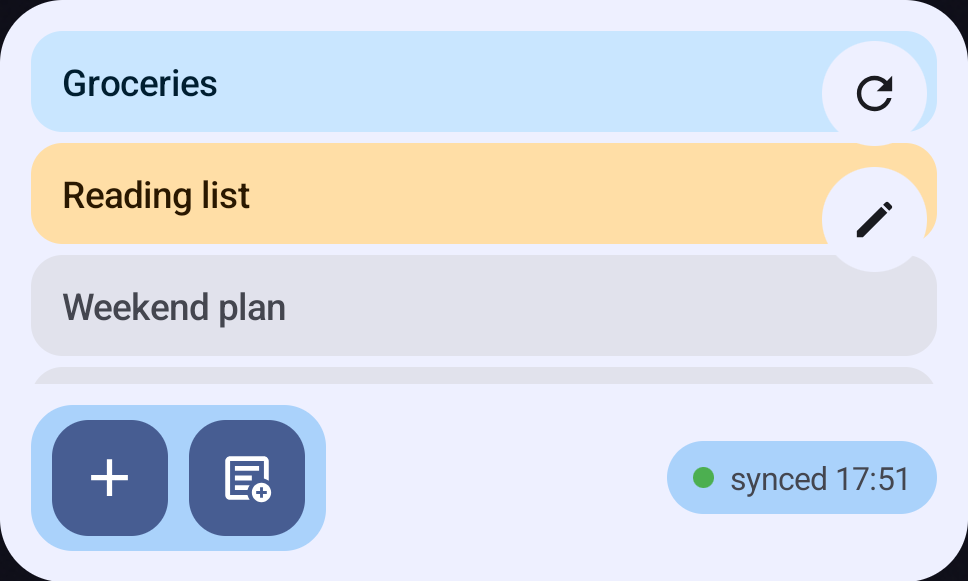
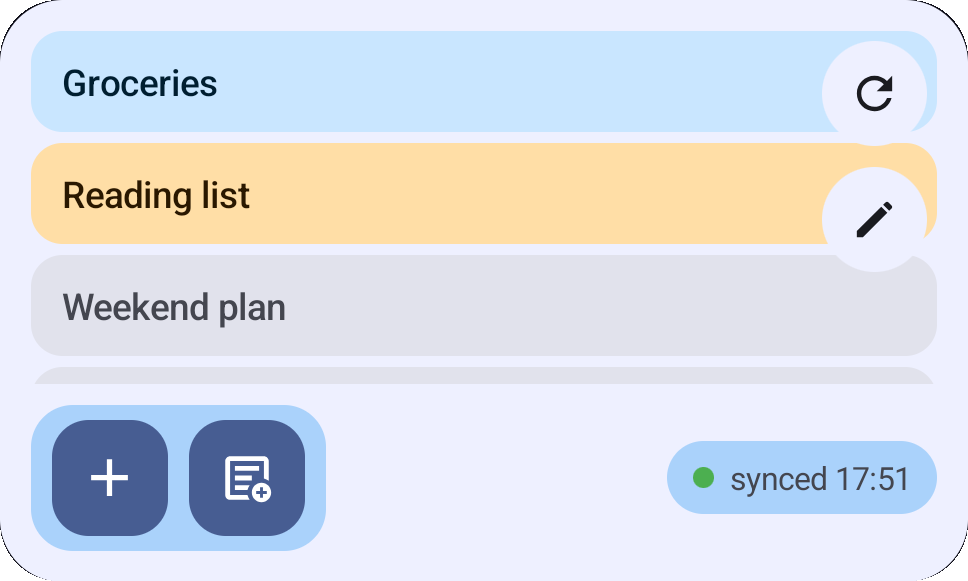
Log the risky paths, and stop crashing without Obsidian
Nothing is reported anywhere, so a bug report is only as good as what the
user can read out of logcat. Route every line through AppLog under one
tag, so collecting it is a single command: adb logcat -s NW:V.

- Opening a note no longer takes the app down when nothing handles the
  obsidian:// scheme. It caught nobody's eye because a phone with the app
  installed usually has Obsidian too; a phone without it crashed on the
  first tap. Now it logs and says so.
- Log where permissions are granted or lost, and which folder was picked
  — the first thing worth knowing about a widget that shows nothing.
- Stop swallowing unreadable settings JSON; log it and fall back.
- Round the corners of the README cutouts, which kept a sliver of
  wallpaper in each corner.

Note contents are never logged.

diff --git a/app/src/main/java/com/marfolog/noteswidgetformarkdown/presentation/setup/SetupActivity.kt b/app/src/main/java/com/marfolog/noteswidgetformarkdown/presentation/setup/SetupActivity.kt
@@ -79,6 +79,7 @@ import com.marfolog.noteswidgetformarkdown.domain.model.NoteSummary
 import com.marfolog.noteswidgetformarkdown.domain.usecase.DeleteNoteUseCase
 import com.marfolog.noteswidgetformarkdown.domain.usecase.GetNotesUseCase
 import com.marfolog.noteswidgetformarkdown.presentation.widget.NotesWidget
+import com.marfolog.noteswidgetformarkdown.util.AppLog
 import com.marfolog.noteswidgetformarkdown.worker.NotesFolderObserverJob
 import com.marfolog.noteswidgetformarkdown.ui.theme.NotesWidgetForMarkdownTheme
 import sh.calvin.reorderable.ReorderableColumn
@@ -107,6 +108,7 @@ class SetupActivity : ComponentActivity() {
     }
 
     companion object {
+        internal const val AREA = "Setup"
         const val PREFS_NAME = "app_prefs"
         const val KEY_VAULT_URI = "vault_uri"
         const val KEY_NOTES_URI = "notes_uri"
@@ -152,6 +154,7 @@ private fun SetupScreen(modifier: Modifier = Modifier) {
             cardSettings = cardSettingsStore.getAll()
             notesLoadError = null
         }.onFailure { error ->
+            AppLog.w(SetupActivity.AREA, "Could not list notes in $currentNotesUri", error)
             notesForSettings = emptyList()
             notesLoadError = error.message ?: "Unable to load notes"
         }
@@ -181,6 +184,7 @@ private fun SetupScreen(modifier: Modifier = Modifier) {
                 uri,
                 Intent.FLAG_GRANT_READ_URI_PERMISSION
             )
+            AppLog.i(SetupActivity.AREA, "Git folder granted: $uri")
             prefs.edit().putString(SetupActivity.KEY_GIT_ROOT_URI, uri.toString()).apply()
             gitReloadTrigger++
             scope.launch { NotesWidget.updateAll(context) }
@@ -223,6 +227,7 @@ private fun SetupScreen(modifier: Modifier = Modifier) {
 
             val name = DocumentFile.fromTreeUri(context, uri)?.name
             val uriStr = uri.toString()
+            AppLog.i(SetupActivity.AREA, "Vault root granted: $uriStr")
 
             prefs.edit()
                 .putString(SetupActivity.KEY_VAULT_URI, uriStr)
@@ -268,6 +273,7 @@ private fun SetupScreen(modifier: Modifier = Modifier) {
                 .apply()
 
             notesUri = uriStr
+            AppLog.i(SetupActivity.AREA, "Notes folder granted: $uriStr")
             // Re-arm the folder watcher: it is bound to one specific tree URI.
             NotesFolderObserverJob.schedule(context)
 
@@ -381,6 +387,7 @@ private fun SetupScreen(modifier: Modifier = Modifier) {
                         noteToDelete = null
                         scope.launch {
                             val deleteNoteUseCase = get<DeleteNoteUseCase>(DeleteNoteUseCase::class.java)
+                            AppLog.i(SetupActivity.AREA, "Deleting a note file on user request")
                             deleteNoteUseCase(note.fileUri)
                                 .onSuccess { deleted ->
                                     if (deleted) {
@@ -408,6 +415,7 @@ private fun SetupScreen(modifier: Modifier = Modifier) {
                                     }
                                 }
                                 .onFailure { error ->
+                                    AppLog.e(SetupActivity.AREA, "Delete failed", error)
                                     Toast.makeText(
                                         context,
                                         error.message ?: "Could not delete the file",

diff --git a/app/src/main/java/com/marfolog/noteswidgetformarkdown/presentation/widget/TrampolineActivity.kt b/app/src/main/java/com/marfolog/noteswidgetformarkdown/presentation/widget/TrampolineActivity.kt
@@ -1,9 +1,12 @@
 package com.marfolog.noteswidgetformarkdown.presentation.widget
 
+import android.content.ActivityNotFoundException
 import android.content.Intent
 import android.net.Uri
 import android.os.Bundle
+import android.widget.Toast
 import androidx.activity.ComponentActivity
+import com.marfolog.noteswidgetformarkdown.util.AppLog
 import androidx.lifecycle.lifecycleScope
 import kotlinx.coroutines.launch
 
@@ -15,8 +18,22 @@ class TrampolineActivity : ComponentActivity() {
         launched = savedInstanceState?.getBoolean(KEY_LAUNCHED) ?: false
         if (!launched) {
             launched = true
-            val targetUri = intent.getStringExtra(EXTRA_URI) ?: run { finish(); return }
-            startActivity(Intent(Intent.ACTION_VIEW, Uri.parse(targetUri)))
+            val targetUri = intent.getStringExtra(EXTRA_URI) ?: run {
+                AppLog.w(AREA, "Started without a target URI, nothing to open")
+                finish()
+                return
+            }
+            // Without a handler for obsidian:// this throws and takes the app down with it,
+            // which is exactly what happens on a phone that has no Obsidian installed.
+            try {
+                startActivity(Intent(Intent.ACTION_VIEW, Uri.parse(targetUri)))
+                AppLog.d(AREA, "Opened ${AppLog.redactFileName(targetUri)}")
+            } catch (e: ActivityNotFoundException) {
+                AppLog.w(AREA, "No app handles this link — is Obsidian installed?", e)
+                Toast.makeText(this, "No app can open this note. Is Obsidian installed?", Toast.LENGTH_LONG).show()
+                finish()
+                return
+            }
         }
     }
 
@@ -38,5 +55,6 @@ class TrampolineActivity : ComponentActivity() {
     companion object {
         const val EXTRA_URI = "target_uri"
         private const val KEY_LAUNCHED = "launched"
+        private const val AREA = "OpenNote"
     }
 }

diff --git a/app/src/main/java/com/marfolog/noteswidgetformarkdown/data/preferences/NoteCardSettingsStore.kt b/app/src/main/java/com/marfolog/noteswidgetformarkdown/data/preferences/NoteCardSettingsStore.kt
@@ -7,6 +7,7 @@ import com.marfolog.noteswidgetformarkdown.domain.model.NoteCardSize
 import com.marfolog.noteswidgetformarkdown.domain.model.NoteCardTextSize
 import com.marfolog.noteswidgetformarkdown.domain.model.NoteSummary
 import com.marfolog.noteswidgetformarkdown.presentation.setup.SetupActivity
+import com.marfolog.noteswidgetformarkdown.util.AppLog
 import org.json.JSONArray
 import org.json.JSONObject
 
@@ -31,7 +32,10 @@ class NoteCardSettingsStore(context: Context) {
                 )
             }
             result
-        }.getOrDefault(emptyMap())
+        }.getOrElse { e ->
+            AppLog.w(AREA, "Card settings JSON is unreadable, falling back to defaults", e)
+            emptyMap()
+        }
     }
 
     fun get(noteId: String): NoteCardAppearance {
@@ -47,7 +51,10 @@ class NoteCardSettingsStore(context: Context) {
                     add(array.getString(index))
                 }
             }
-        }.getOrDefault(emptyList())
+        }.getOrElse { e ->
+            AppLog.w(AREA, "Card order JSON is unreadable, falling back to file order", e)
+            emptyList()
+        }
     }
 
     fun saveOrder(noteIds: List<String>) {
@@ -103,6 +110,7 @@ class NoteCardSettingsStore(context: Context) {
     }
 
     companion object {
+        private const val AREA = "CardSettings"
         const val KEY_CARD_SETTINGS_JSON = "note_card_settings_json"
         const val KEY_CARD_ORDER_JSON = "note_card_order_json"
         private const val KEY_SIZE = "size"

diff --git a/app/src/main/java/com/marfolog/noteswidgetformarkdown/util/AppLog.kt b/app/src/main/java/com/marfolog/noteswidgetformarkdown/util/AppLog.kt
@@ -1,0 +1,37 @@
+package com.marfolog.noteswidgetformarkdown.util
+
+import android.util.Log
+
+/**
+ * Every log line in the app goes through here, under one tag prefix.
+ *
+ * The app sends nothing anywhere — no analytics, no crash reporting — so a bug report is only ever
+ * as good as what the user can read out of logcat themselves. One prefix makes that a single
+ * command:
+ *
+ * ```
+ * adb logcat -s NW:V
+ * ```
+ *
+ * Log what a reader of a bug report would need: which folder was picked, whether a permission
+ * survived, why a file could not be read. Never log note contents.
+ */
+object AppLog {
+
+    private const val TAG = "NW"
+
+    fun d(area: String, message: String) = Log.d(TAG, "[$area] $message")
+
+    fun i(area: String, message: String) = Log.i(TAG, "[$area] $message")
+
+    fun w(area: String, message: String, error: Throwable? = null) {
+        if (error == null) Log.w(TAG, "[$area] $message") else Log.w(TAG, "[$area] $message", error)
+    }
+
+    fun e(area: String, message: String, error: Throwable? = null) {
+        if (error == null) Log.e(TAG, "[$area] $message") else Log.e(TAG, "[$area] $message", error)
+    }
+
+    /** Folder URIs contain the full path, which is fine, but note file names are not logged. */
+    fun redactFileName(uri: String): String = uri.substringBeforeLast("%2F", uri)
+}

diff --git a/app/src/main/java/com/marfolog/noteswidgetformarkdown/presentation/widget/WidgetData.kt b/app/src/main/java/com/marfolog/noteswidgetformarkdown/presentation/widget/WidgetData.kt
@@ -9,6 +9,7 @@ import com.marfolog.noteswidgetformarkdown.domain.model.NoteCardAppearance
 import com.marfolog.noteswidgetformarkdown.domain.model.NoteSummary
 import com.marfolog.noteswidgetformarkdown.domain.usecase.GetNotesUseCase
 import com.marfolog.noteswidgetformarkdown.presentation.setup.SetupActivity
+import com.marfolog.noteswidgetformarkdown.util.AppLog
 import kotlinx.coroutines.flow.firstOrNull
 import org.koin.java.KoinJavaComponent.get
 
@@ -68,6 +69,11 @@ internal suspend fun loadWidgetData(context: Context): WidgetData {
         }
     }
 
+    AppLog.d(
+        "WidgetData",
+        "vault=${vaultName ?: "?"} folder=${noteFolderPath ?: "?"} " +
+            "state=${state::class.simpleName} git=${gitSyncStatus?.let { it::class.simpleName } ?: "off"}"
+    )
     return WidgetData(
         state = state,
         vaultName = vaultName,

diff --git a/app/src/main/java/com/marfolog/noteswidgetformarkdown/presentation/widget/FastNoteActivity.kt b/app/src/main/java/com/marfolog/noteswidgetformarkdown/presentation/widget/FastNoteActivity.kt
@@ -4,6 +4,7 @@ import android.content.Intent
 import android.os.Bundle
 import android.widget.Toast
 import androidx.activity.ComponentActivity
+import com.marfolog.noteswidgetformarkdown.util.AppLog
 import androidx.activity.compose.setContent
 import androidx.compose.material3.AlertDialog
 import androidx.compose.material3.OutlinedTextField

diff --git a/docs/screenshots/make_promo.py b/docs/screenshots/make_promo.py
@@ -161,6 +161,13 @@ def canvas_of(size):
     return c
 
 
+def plain_cutouts():
+    """The bare widgets for the README, rounded so no wallpaper survives in the corners."""
+    Image.open(f'{SRC}/{SHOT}').save(f'{OUT}/01-home-both-widgets.png')
+    widget(CARD_BOX, 968).save(f'{OUT}/02-card-widget.png')
+    widget(LIST_BOX, 968).save(f'{OUT}/03-list-widget.png')
+
+
 def screenshot_hero():
     c = canvas_of((1080, 1920))
     headline(c, ['Your .md files.', 'On the home screen.'],
@@ -215,6 +222,15 @@ def feature_graphic():
     c.convert('RGB').save(f'{OUT}/store-00-feature.png')
 
 
+def plain_cutouts():
+    """The bare widgets for the README, rounded so no wallpaper survives in the corners."""
+    Image.open(f'{SRC}/{SHOT}').save(f'{OUT}/01-home-both-widgets.png')
+    widget(CARD_BOX, 968).save(f'{OUT}/02-card-widget.png')
+    widget(LIST_BOX, 968).save(f'{OUT}/03-list-widget.png')
+
+
+plain_cutouts()
+plain_cutouts()
 screenshot_hero()
 screenshot_widget(CARD_BOX, 'store-02-cards.png',
                   ['Notes, not just', 'note titles.'],
